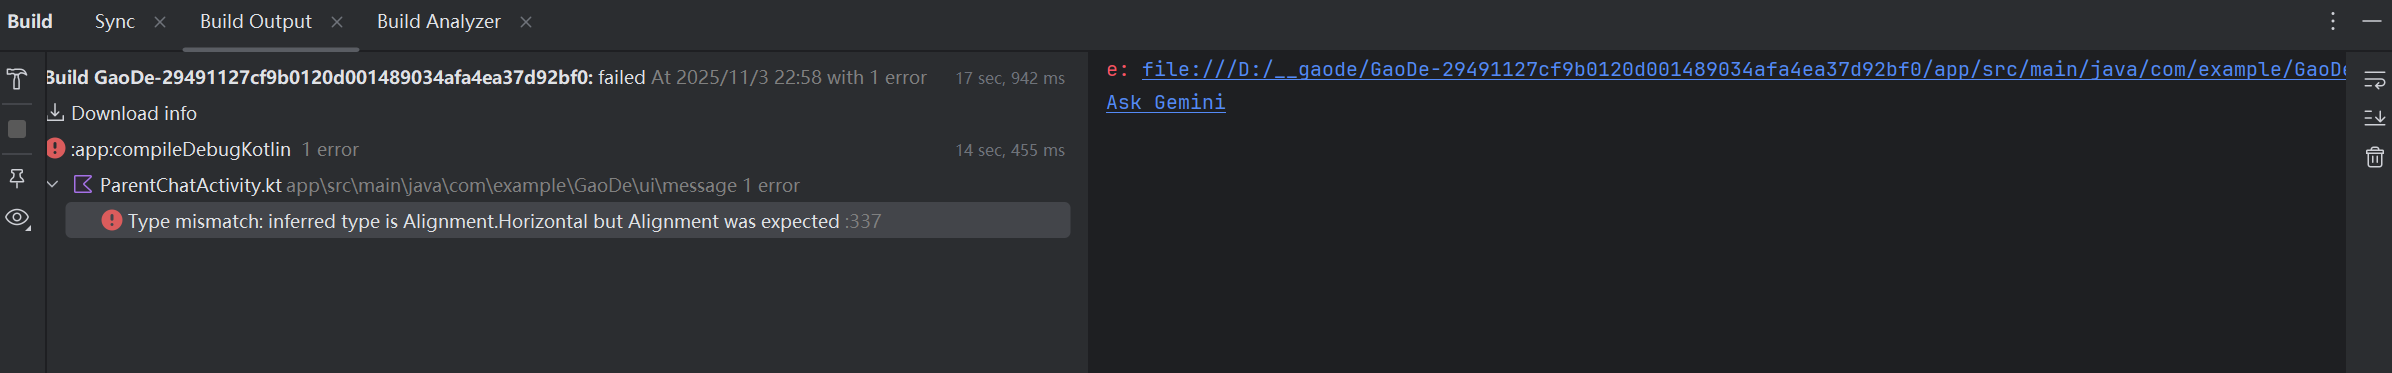
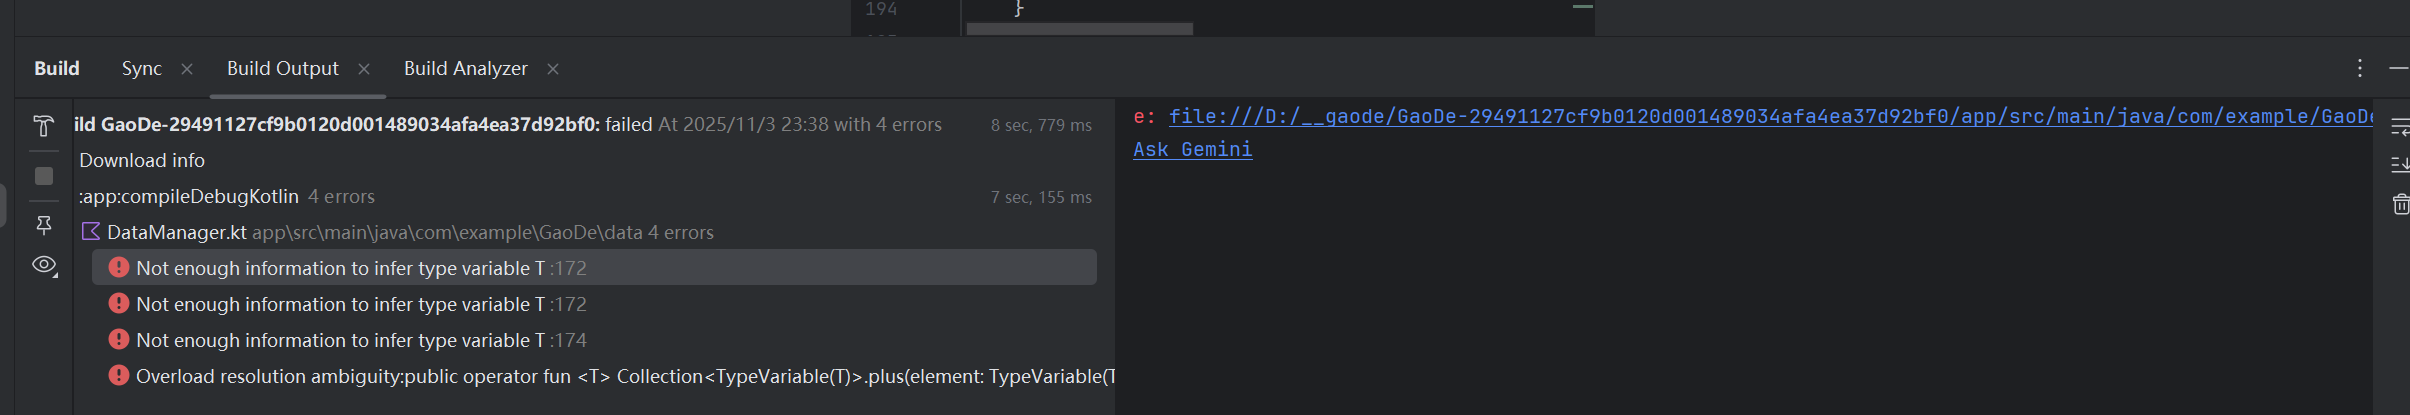
优化

diff --git a/app/src/main/java/com/example/GaoDe/data/DataManager.kt b/app/src/main/java/com/example/GaoDe/data/DataManager.kt
@@ -102,14 +102,78 @@ class DataManager(private val context: Context) {
     fun getSharedMessages(): List<SharedMessage> {
         return if (sharedMessagesFile.exists()) {
             val jsonString = sharedMessagesFile.readText()
-            gson.fromJson(jsonString, object : TypeToken<List<SharedMessage>>() {}.type) ?: emptyList()
+            gson.fromJson(jsonString, object : TypeToken<List<SharedMessage>>() {}.type) ?: getDefaultChatMessages()
         } else {
-            emptyList()
+            getDefaultChatMessages()
         }
     }
     
+    private fun getDefaultChatMessages(): List<SharedMessage> {
+        val currentTime = System.currentTimeMillis()
+        return listOf(
+            // 爸爸的聊天记录
+            SharedMessage(
+                id = "default_dad_1",
+                contactId = "dad",
+                contactName = "爸爸",
+                message = "儿子，今天天气挺好的，记得多喝水",
+                timestamp = currentTime - 3600000 * 24 // 1天前
+            ),
+            SharedMessage(
+                id = "default_dad_2", 
+                contactId = "dad",
+                contactName = "爸爸",
+                message = "位置: 华中科技大学东门 - 我在校门口等你",
+                timestamp = currentTime - 3600000 * 12 // 12小时前
+            ),
+            SharedMessage(
+                id = "default_dad_3",
+                contactId = "dad", 
+                contactName = "爸爸",
+                message = "工作别太累了，身体最重要",
+                timestamp = currentTime - 3600000 * 6 // 6小时前
+            ),
+            
+            // 妈妈的聊天记录
+            SharedMessage(
+                id = "default_mom_1",
+                contactId = "mom",
+                contactName = "妈妈", 
+                message = "宝贝，妈妈给你做了你最爱吃的红烧肉",
+                timestamp = currentTime - 3600000 * 36 // 1.5天前
+            ),
+            SharedMessage(
+                id = "default_mom_2",
+                contactId = "mom",
+                contactName = "妈妈",
+                message = "位置: 南湖花溪公园 - 这里的花开得真漂亮，改天带你来看看",
+                timestamp = currentTime - 3600000 * 18 // 18小时前
+            ),
+            SharedMessage(
+                id = "default_mom_3",
+                contactId = "mom",
+                contactName = "妈妈", 
+                message = "记得按时吃饭，不要总是点外卖",
+                timestamp = currentTime - 3600000 * 8 // 8小时前
+            ),
+            SharedMessage(
+                id = "default_mom_4",
+                contactId = "mom",
+                contactName = "妈妈",
+                message = "周末回家吃饭吗？妈妈给你炖汤喝",
+                timestamp = currentTime - 3600000 * 2 // 2小时前
+            )
+        )
+    }
+    
     fun addSharedMessage(contactId: String, contactName: String, message: String): Boolean {
-        val messages = getSharedMessages().toMutableList()
+        val existingMessages = if (sharedMessagesFile.exists()) {
+            val jsonString = sharedMessagesFile.readText()
+            gson.fromJson(jsonString, object : TypeToken<List<SharedMessage>>() {}.type) ?: emptyList<SharedMessage>()
+        } else {
+            emptyList<SharedMessage>()
+        }
+        
         val newMessage = SharedMessage(
             id = "shared_${System.currentTimeMillis()}",
             contactId = contactId,
@@ -117,9 +181,12 @@ class DataManager(private val context: Context) {
             message = message,
             timestamp = System.currentTimeMillis()
         )
-        messages.add(0, newMessage) // 添加到列表开头
         
-        val jsonString = gson.toJson(messages)
+        // 只保存用户新增的消息到文件
+        val userMessages = existingMessages.toMutableList()
+        userMessages.add(0, newMessage)
+        
+        val jsonString = gson.toJson(userMessages)
         sharedMessagesFile.writeText(jsonString)
         return true
     }

diff --git a/app/src/main/java/com/example/GaoDe/ui/message/ParentChatActivity.kt b/app/src/main/java/com/example/GaoDe/ui/message/ParentChatActivity.kt
@@ -71,16 +71,20 @@ fun ParentChatScreen(
     // Load existing messages and convert to chat format
     LaunchedEffect(contactId) {
         val sharedMessages = dataManager.getMessagesForContact(contactId)
-        chatMessages = sharedMessages.map { sharedMsg ->
-            ChatMessage(
-                id = sharedMsg.id,
-                content = sharedMsg.message,
-                timestamp = sharedMsg.timestamp,
-                isFromUser = true,
-                messageType = if (sharedMsg.message.contains("位置:") || sharedMsg.message.contains("地点:")) 
-                    ChatMessageType.LOCATION else ChatMessageType.TEXT
-            )
-        }
+        chatMessages = sharedMessages
+            .sortedBy { it.timestamp } // 按时间排序，最新的在后面
+            .map { sharedMsg ->
+                ChatMessage(
+                    id = sharedMsg.id,
+                    content = sharedMsg.message,
+                    timestamp = sharedMsg.timestamp,
+                    // 判断消息发送者：如果消息ID以"default_"开头，说明是预设消息（来自联系人）
+                    // 如果以"shared_"开头，说明是用户发送的消息
+                    isFromUser = sharedMsg.id.startsWith("shared_"),
+                    messageType = if (sharedMsg.message.contains("位置:") || sharedMsg.message.contains("地点:")) 
+                        ChatMessageType.LOCATION else ChatMessageType.TEXT
+                )
+            }
     }
     
     // Load contact avatar

diff --git a/README.md b/README.md
@@ -641,6 +641,8 @@ app/src/main/
     - ✅ 复用现有DataManager的SharedMessage机制
     - ✅ 支持爸爸和妈妈两个联系人独立聊天记录
     - ✅ 聊天记录自动显示在MessageScreen联系人列表
+    - ✅ 添加预设聊天记录：爸爸3条消息，妈妈4条消息
+    - ✅ 包含真实的家庭对话内容和位置分享示例
   - ✅ **导航集成**：
     - ✅ MessageScreen添加联系人点击跳转逻辑
     - ✅ AndroidManifest.xml注册ParentChatActivity

diff --git a/需求.md b/需求.md
@@ -65,6 +65,5 @@
 UIReference\皮肤.jpg
 
 ## 你当前的任务
-1.我需要实现能够点击进入爸妈的聊天框并且可以与之进行聊天的功能，下方是文字输入框，点击发送的时候会发送文字
-2.对爸妈的地点分享要求以卡片的形式发出
+1.你现在随便编造一些与爸妈的聊天记录
 
